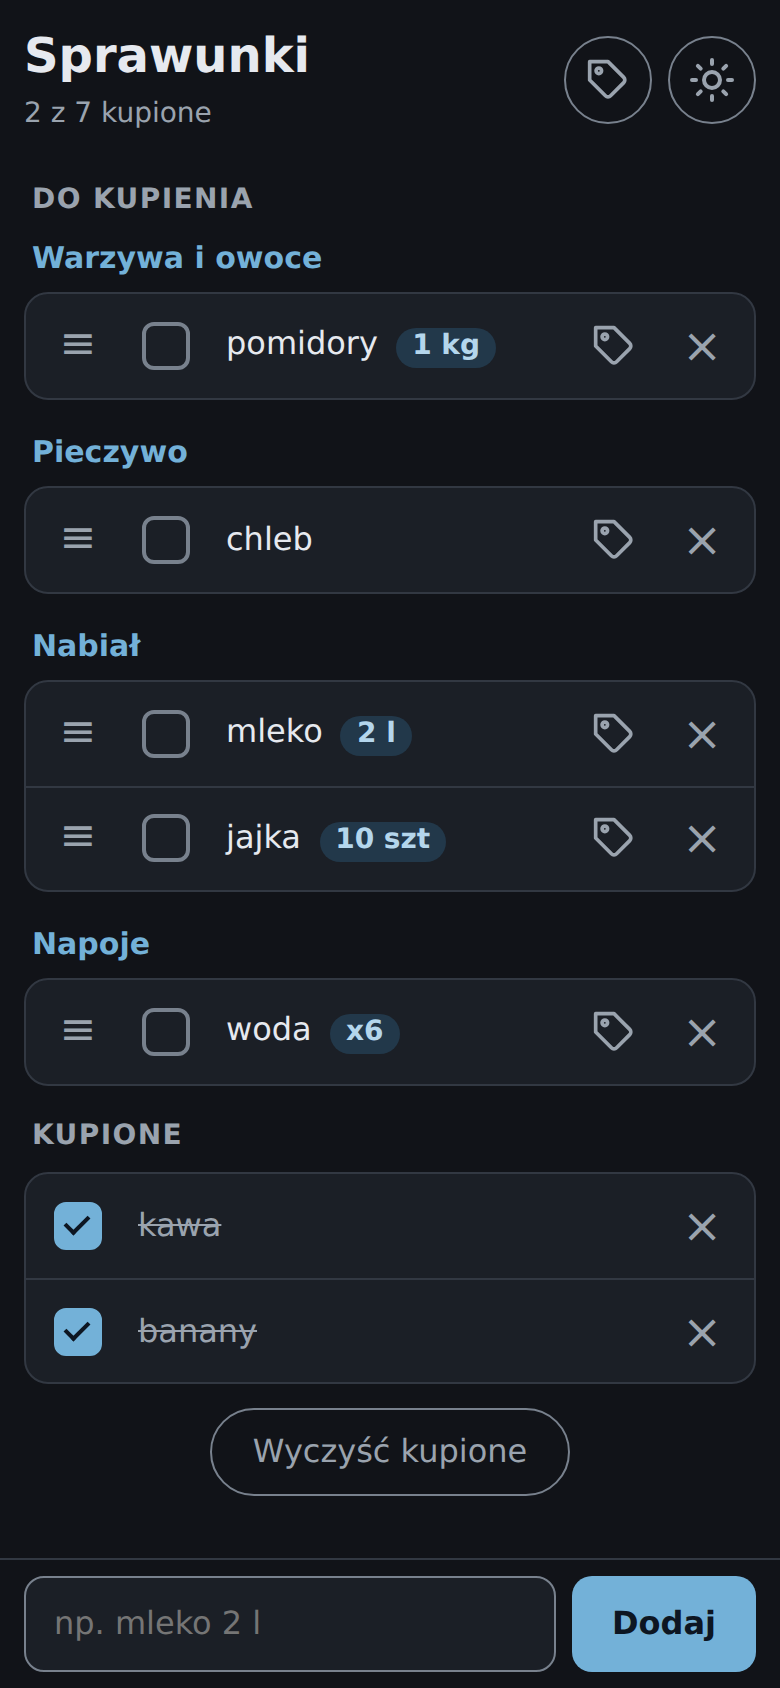
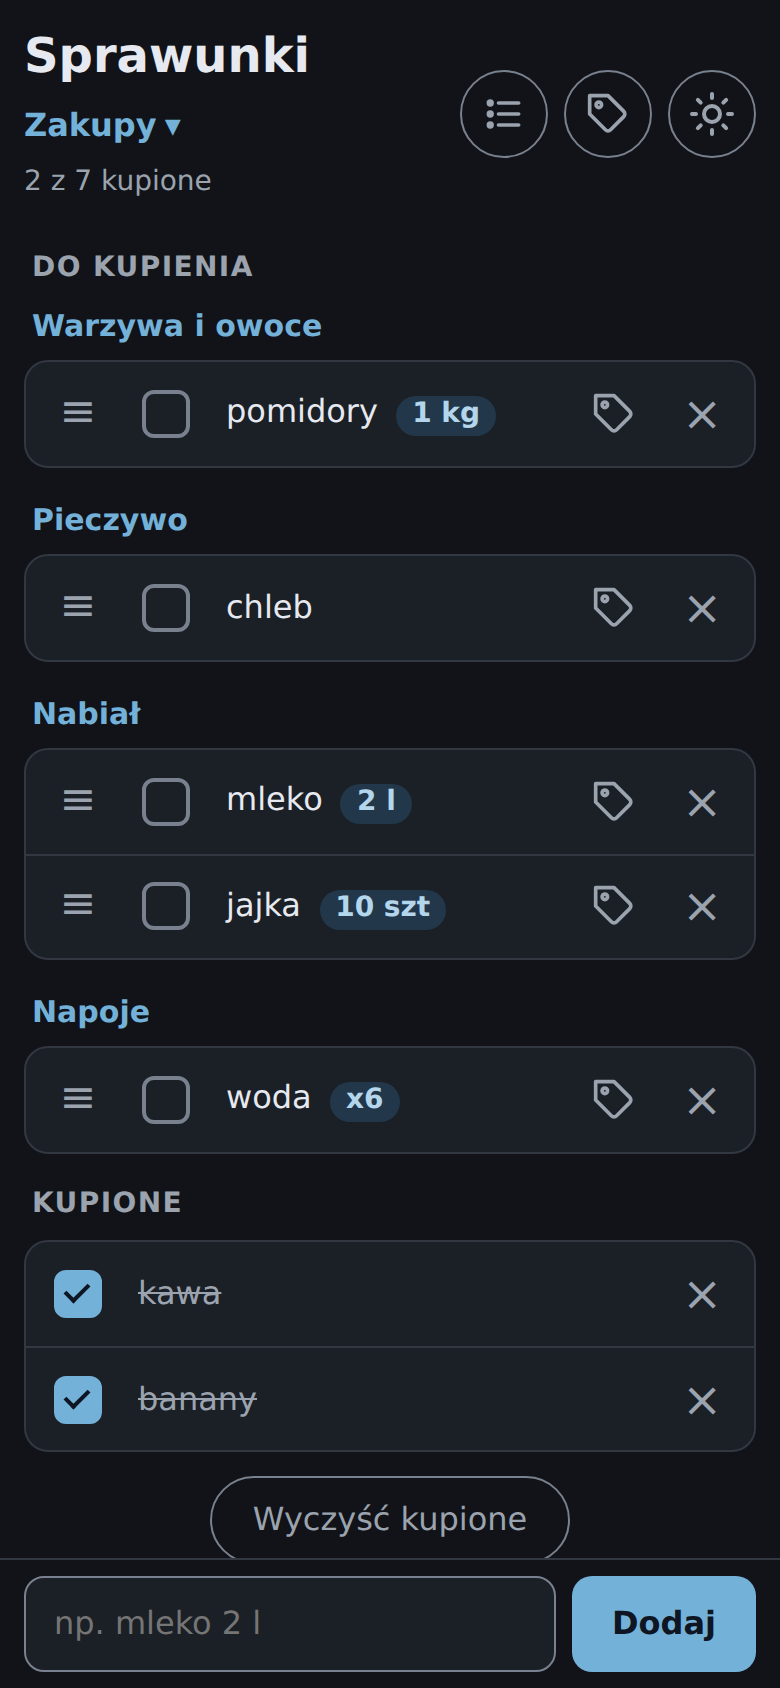
Document multiple lists in README, update screenshots

diff --git a/README.md b/README.md
@@ -5,8 +5,9 @@ Sprawunki to prosta aplikacja webowa (PWA) do prowadzenia listy zakupów: w cią
 **Aplikacja: https://dawidgorecki.github.io/sprawunki/**
 
 <p>
-  <img src="docs/screenshots/lista-jasny.png" alt="Lista zakupów pogrupowana według działów sklepu: Warzywa i owoce, Pieczywo, Nabiał, Napoje; ilości jako etykiety, np. „1 kg”, „2 l”; pod spodem sekcja Kupione" width="260">
+  <img src="docs/screenshots/lista-jasny.png" alt="Lista „Zakupy” pogrupowana według działów sklepu: Warzywa i owoce, Pieczywo, Nabiał, Napoje; ilości jako etykiety, np. „1 kg”, „2 l”; pod spodem sekcja Kupione" width="260">
   <img src="docs/screenshots/lista-ciemny.png" alt="Ta sama lista w trybie ciemnym" width="260">
+  <img src="docs/screenshots/listy.png" alt="Okno Wybierz listę z listami Zakupy (aktywna, 2/7), Drogeria (1/3) i Apteka" width="260">
   <img src="docs/screenshots/kategorie.png" alt="Okno Kategorie z listą działów do przestawiania, zmiany nazwy i usuwania oraz polem do dodania nowej kategorii" width="260">
 </p>
 
@@ -16,6 +17,7 @@ Sprawunki to prosta aplikacja webowa (PWA) do prowadzenia listy zakupów: w cią
 - Wykrywanie duplikatów bez względu na ilość: ponowne wpisanie produktu, który już jest na liście, nie dodaje go drugi raz. Wpis z nową ilością („mleko 3 l”) ją zmienia, a kupiony produkt wraca do „Do kupienia”.
 - Kategorie, czyli działy sklepu: produkty do kupienia są pogrupowane w kolejności, w jakiej chodzisz po sklepie. Aplikacja zna kategorie ok. 200 popularnych produktów, a gdy zmienisz kategorię ręcznie, zapamięta ją na następny raz.
 - Własne kategorie: w oknie „Kategorie” dodasz nowe, zmienisz nazwy, usuniesz zbędne i ustawisz kolejność pod swój sklep.
+- Osobne listy, np. na spożywczy, drogerię i aptekę. W oknie „Listy” dodasz nowe, zmienisz nazwy, usuniesz zbędne i ustawisz kolejność. Przy kilku listach pod tytułem pojawia się nazwa aktywnej listy: tapnięcie pokazuje wszystkie listy z licznikiem kupionych produktów i przełącza między nimi. Kategorie są wspólne dla wszystkich list.
 - Zmiana kolejności produktów w obrębie kategorii: przeciągnij za uchwyt ≡ albo użyj strzałek na klawiaturze.
 - Przełącznik w nagłówku, który nie pozwala ekranowi zgasnąć w trakcie zakupów (tam, gdzie przeglądarka to obsługuje).
 - Dwie sekcje, „Do kupienia” i „Kupione”, oraz licznik postępu, np. „3 z 8 kupione”.
@@ -33,9 +35,9 @@ Aktualizacje instalują się same: nowa wersja pobiera się w tle i działa od k
 
 ## Prywatność
 
-Aplikacja nie ma serwera ani kont. Lista jest zapisana tylko w pamięci przeglądarki na Twoim urządzeniu (localStorage) i nigdzie nie jest wysyłana. Aplikacja nie korzysta z żadnych zewnętrznych usług ani analityki.
+Aplikacja nie ma serwera ani kont. Listy są zapisane tylko w pamięci przeglądarki na Twoim urządzeniu (localStorage) i nigdzie nie jest wysyłana. Aplikacja nie korzysta z żadnych zewnętrznych usług ani analityki.
 
-Wyczyszczenie danych przeglądarki lub odinstalowanie aplikacji usuwa listę.
+Wyczyszczenie danych przeglądarki lub odinstalowanie aplikacji usuwa listy.
 
 ## Dla programistów
 

diff --git a/PLAN.md b/PLAN.md
@@ -9,7 +9,7 @@ Kolejność implementacji i kryteria ukończenia kolejnych wersji. Co i jak ma d
 | 1.0 | Jedna lista: dodawanie, odhaczanie, edycja, usuwanie, PWA | 3, 4 | ukończona |
 | 1.1 | Parsowanie ilości, zmiana kolejności, blokada wygaszania ekranu | 9 | ukończona |
 | 2.0 | Kategorie | 10 | opublikowana, test w sklepie |
-| 2.1 | Wiele list | 11 | **w trakcie** |
+| 2.1 | Wiele list | 11 | opublikowana, test na telefonie |
 | 2.2 | Eksport/import kopii zapasowej | — | planowana |
 
 Pomysły na później i rzeczy poza zakresem: punkt 6 specyfikacji.
